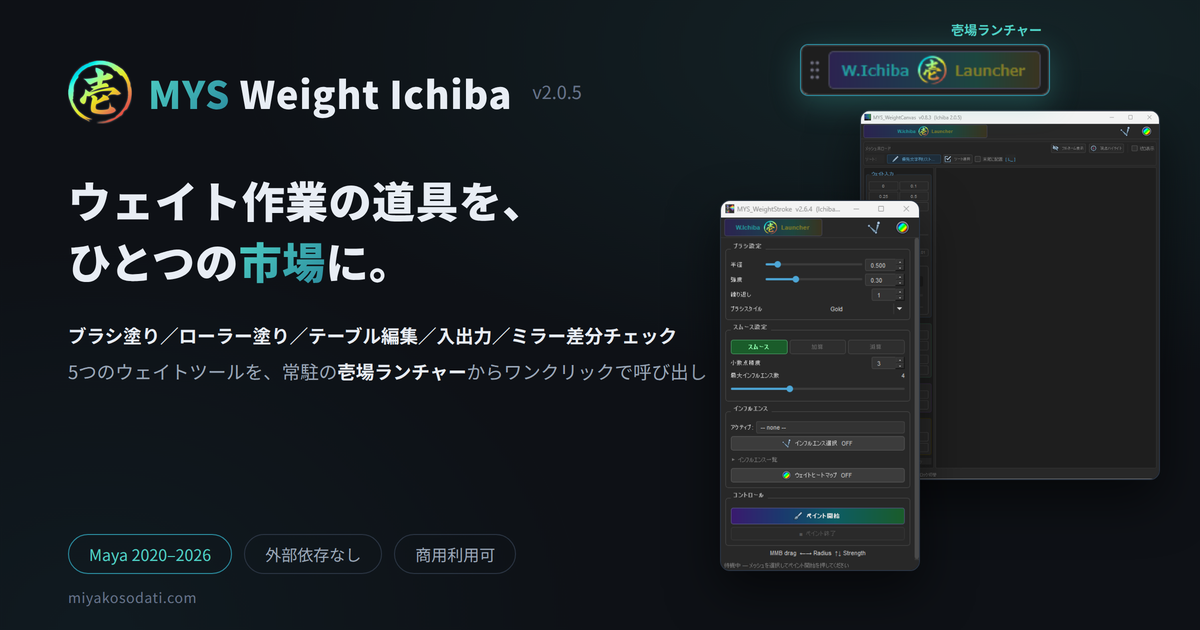
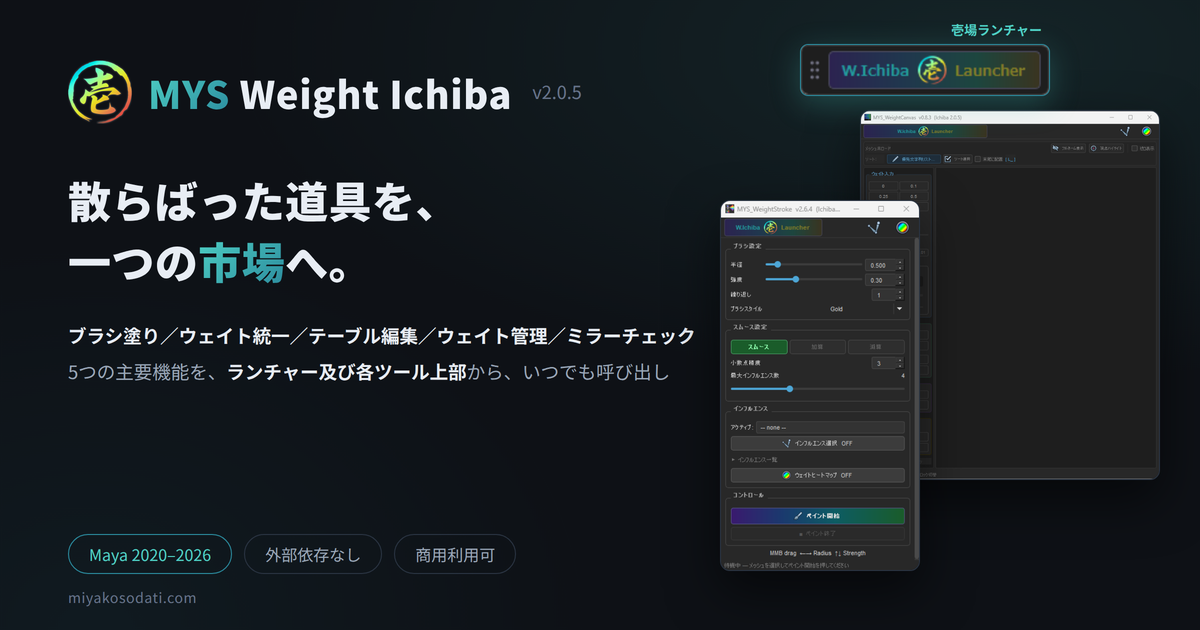
Weight Ichiba v2.0.5 公開(確定文言版)

Changed region(s): [[0.0617, 0.2714, 0.4317, 0.4524], [0.0925, 0.5127, 0.5858, 0.6032], [0.1542, 0.5127, 0.2467, 0.5429]]

diff --git a/tools/ichiba/index.html b/tools/ichiba/index.html
@@ -4,9 +4,9 @@
 <meta charset="UTF-8">
 <meta name="viewport" content="width=device-width, initial-scale=1.0">
 <title>MYS Weight Ichiba（壱場） — スキンウェイト作業ツール一式 | MYS Tools</title>
-<meta name="description" content="ブラシ塗り・ローラー塗り・テーブル編集・入出力・ミラー差分チェックの5つのウェイトツールを、常駐の壱場ランチャーから起動できるMaya用無償ツールセット。商用利用可。">
-<meta property="og:title" content="MYS Weight Ichiba — ウェイト作業の道具を、ひとつの市場に。">
-<meta property="og:description" content="ブラシ塗り/ローラー塗り/テーブル編集/入出力/ミラー差分チェックの5ツール+壱場ランチャー。Maya 2020–2026対応の無償ツールセット。">
+<meta name="description" content="ブラシ塗り・ウェイト統一・テーブル編集・ウェイト管理・ミラーチェックの5つの主要機能を、壱場ランチャーから起動できるMaya用無償ツールセット。商用利用可。">
+<meta property="og:title" content="MYS Weight Ichiba — 散らばった道具を、一つの市場へ。">
+<meta property="og:description" content="ブラシ塗り/ウェイト統一/テーブル編集/ウェイト管理/ミラーチェックの5つの主要機能を、ランチャー及び各ツール上部からいつでも呼び出し。Maya 2020–2026対応の無償ツールセット。">
 <meta property="og:url" content="https://miyakosodati.com/tools/ichiba/">
 <meta property="og:image" content="https://miyakosodati.com/assets/img/ichiba/summary.png">
 <meta name="twitter:card" content="summary_large_image">
@@ -28,7 +28,7 @@
   <div class="tool-head">
     <div class="crumb"><a href="/">MYS Tools</a> / Weight Ichiba</div>
     <h1>MYS Weight Ichiba（壱場） <span style="font-size:16px;color:var(--tx3)">v2.0.5</span></h1>
-    <div class="tag">スキンウェイト作業ツール一式 — 5つのツールを壱場ランチャーからワンクリックで</div>
+    <div class="tag">スキンウェイト作業ツール一式 — 5つの主要機能を、ランチャー及び各ツール上部からいつでも呼び出し</div>
     <div class="badges">
       <span class="bd dcc">Maya 2020–2026</span>
       <span class="bd">Windows</span>
@@ -41,15 +41,15 @@
     </div>
   </div>
 
-  <img class="figure" src="/assets/img/ichiba/summary.png" alt="MYS Weight Ichiba — ウェイト作業の道具を、ひとつの市場に。">
+  <img class="figure" src="/assets/img/ichiba/summary.png" alt="MYS Weight Ichiba — 散らばった道具を、一つの市場へ。">
 
   <h2 class="sec">収録ツール</h2>
   <ul>
-    <li><strong>壱場ランチャー</strong> — 全ツールの入口。ビューポートの邪魔をしない小さな常駐バーから、各ツールをワンクリックで起動します。</li>
+    <li><strong>壱場ランチャー</strong> — 全ツールの入口。ビューポートの邪魔をしない小さな常駐バーで、各ツールの上部にも組み込まれており、どこからでも相互に呼び出せます。</li>
     <li><strong>WeightStroke</strong> — ブラシ式ウェイト塗り。ストロークでなじませながら塗れます。</li>
-    <li><strong>WeightRoller</strong> — ローラー式ウェイト塗り。転がすように面で塗り広げます。</li>
-    <li><strong>WeightCanvas</strong> — ウェイトのテーブル表示 / 編集。数値で正確に確認・調整できます。</li>
-    <li><strong>WeightContainer</strong> — ウェイトのエクスポート / インポート。保存・流用・受け渡しに。</li>
+    <li><strong>WeightRoller</strong> — 選択頂点をスライダーで<strong>瞬時に統一</strong>。ドラッグ中は統一結果がリアルタイムにビューポートへ反映され、離した瞬間に確定します。1頂点ずつのコピー&amp;ペーストは、もう不要です。</li>
+    <li><strong>WeightCanvas</strong> — ウェイトのテーブル表示 / 編集。Roller機能も組み込まれており、数値入力からスライダー調整まで手頃に行えます。</li>
+    <li><strong>WeightContainer</strong> — ウェイトをストックして、エクスポート / インポートはもちろん、グループ管理や入れ替え機能も完備。</li>
     <li><strong>WeightMirrorChecker</strong> — 左右ミラーの差分チェック。対称崩れを素早く発見します。</li>
   </ul>
 

diff --git a/index.html b/index.html
@@ -67,7 +67,7 @@
         <span class="st live">公開中</span>
         <img class="icon" src="/assets/icons/ichiba.png" alt="MYS Weight Ichiba">
         <h3>MYS Weight Ichiba</h3>
-        <p>ブラシ塗り・テーブル編集・入出力などウェイト作業ツール一式を、壱場ランチャーからワンクリックで。</p>
+        <p>ブラシ塗り・ウェイト統一・テーブル編集・ウェイト管理・ミラーチェックを、壱場ランチャーからいつでも。</p>
         <div class="badges"><span class="bd dcc">Maya 2020–2026</span><span class="bd">外部依存なし</span></div>
       </a>
 
